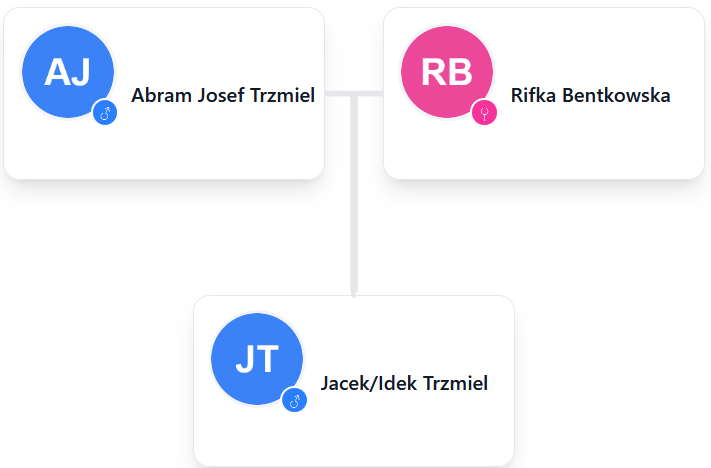
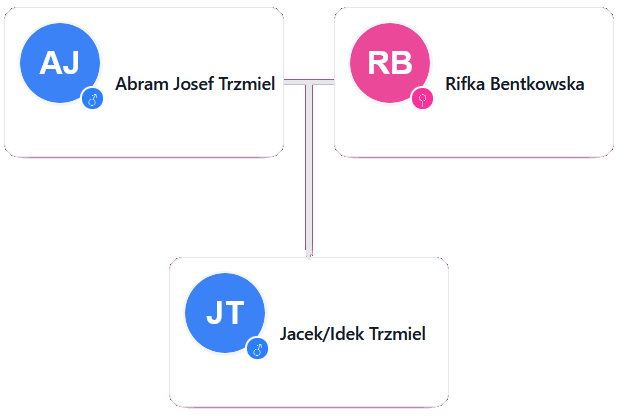
misc

diff --git a/demos/jack/photos.py b/demos/jack/photos.py
@@ -1,5 +1,9 @@
+import math
 import os
 import re
+
+from OpenGL.GL import *
+from OpenGL.GLU import gluPerspective
 
 from demos.jack.overlay import Picture
 from demos.jack.revived_photoLODZ import RevivedPhoto
@@ -7,8 +11,10 @@ from demos.jack.revived_photoLODZ import RevivedPhoto
 
 class StagePhoto:
     def __init__(self, appear=None, disappear=None, opacity=0.85, pop_seconds=0.2, translucent_seconds=0.5,
-                 clearing_seconds=1.0, exit_seconds=0.5, room_seconds=0.6):
+                 clearing_seconds=1.0, exit_seconds=0.5, room_seconds=0.6, from_second=None, until_second=None):
         self.room_seconds = room_seconds
+        self.from_second = from_second
+        self.until_second = until_second
         self.appear = appear
         self.disappear = disappear
         self.opacity = opacity
@@ -18,7 +24,7 @@ class StagePhoto:
         self.exit_seconds = exit_seconds
 
     def is_planned(self):
-        return self.appear is not None or self.disappear is not None
+        return any(value is not None for value in (self.appear, self.disappear, self.from_second, self.until_second))
 
     def plan(self, appear, disappear):
         self.appear = appear if self.appear is None else self.appear
@@ -26,8 +32,10 @@ class StagePhoto:
 
     def _shown_span(self, stage):
         window_start, window_end = stage.photo_window()
-        return (window_start + (window_end - window_start) * self.appear,
-                window_start + (window_end - window_start) * self.disappear)
+        start = window_start + (window_end - window_start) * self.appear
+        end = window_start + (window_end - window_start) * self.disappear
+        return (start if self.from_second is None else self.from_second,
+                end if self.until_second is None else self.until_second)
 
     def room_needed(self, stage, time):
         elapsed = time - stage.start_time
@@ -96,8 +104,8 @@ class BottomRightPlacement:
 
 
 class StillPhoto(StagePhoto):
-    def __init__(self, file_name, appear=None, disappear=None, placement=None):
-        super().__init__(appear, disappear)
+    def __init__(self, file_name, appear=None, disappear=None, placement=None, from_second=None, until_second=None):
+        super().__init__(appear, disappear, from_second=from_second, until_second=until_second)
         self.picture = Picture(file_name)
         self.placement = placement or CenteredPlacement()
 
@@ -110,6 +118,44 @@ class StillPhoto(StagePhoto):
 
     def draw(self, overlay, strength, box):
         overlay.draw_texture(self.picture.texture.id, self.area(overlay, box), strength)
+
+
+class SwayingPhoto(StillPhoto):
+    def __init__(self, file_name, appear=None, disappear=None, placement=None, from_second=None, until_second=None,
+                 sway_degrees=10.0, sway_period=6.0, field_of_view=30.0):
+        super().__init__(file_name, appear, disappear, placement, from_second, until_second)
+        self.sway_degrees = sway_degrees
+        self.sway_period = sway_period
+        self.field_of_view = field_of_view
+        self.sway_time = 0.0
+
+    def update(self, dt):
+        self.sway_time += dt
+
+    def draw(self, overlay, strength, box):
+        x, y, width, height = self.area(overlay, box)
+        distance = overlay.height / 2.0 / math.tan(math.radians(self.field_of_view) / 2.0)
+        glMatrixMode(GL_PROJECTION)
+        glLoadIdentity()
+        gluPerspective(self.field_of_view, overlay.width / overlay.height, distance * 0.2, distance * 3.0)
+        glMatrixMode(GL_MODELVIEW)
+        glLoadIdentity()
+        glTranslatef(x + width / 2.0 - overlay.width / 2.0, overlay.height / 2.0 - y - height / 2.0, -distance)
+        glRotatef(self.sway_degrees * math.sin(2.0 * math.pi * self.sway_time / self.sway_period), 0.0, 1.0, 0.0)
+        glBindTexture(GL_TEXTURE_2D, self.picture.texture.id)
+        glColor4f(1.0, 1.0, 1.0, strength)
+        half_width, half_height = width / 2.0, height / 2.0
+        glBegin(GL_QUADS)
+        glTexCoord2f(0.0, 0.0)
+        glVertex3f(-half_width, half_height, 0.0)
+        glTexCoord2f(1.0, 0.0)
+        glVertex3f(half_width, half_height, 0.0)
+        glTexCoord2f(1.0, 1.0)
+        glVertex3f(half_width, -half_height, 0.0)
+        glTexCoord2f(0.0, 1.0)
+        glVertex3f(-half_width, -half_height, 0.0)
+        glEnd()
+        overlay.apply()
 
 
 class PhotoAlbum:
@@ -126,8 +172,8 @@ class PhotoAlbum:
 
 
 class LivingPhoto(StagePhoto):
-    def __init__(self, appear=None, disappear=None):
-        super().__init__(appear, disappear)
+    def __init__(self, appear=None, disappear=None, from_second=None, until_second=None):
+        super().__init__(appear, disappear, from_second=from_second, until_second=until_second)
         self.revived = RevivedPhoto()
 
     def update(self, dt):

diff --git a/lib/test/historical_earth_test.py b/lib/test/historical_earth_test.py
@@ -1,0 +1,50 @@
+import math
+import os
+import sys
+
+import pygame
+from pygame.locals import K_SPACE
+from OpenGL.GLU import gluLookAt
+
+sys.path.insert(0, os.path.abspath(os.path.join(os.path.dirname(__file__), "..", "..")))
+
+from lib.historical_earth import HistoricalEarth
+from lib.test.earth_test import EarthTest
+
+
+class HistoricalEarthTest(EarthTest):
+    """Camera holds still near the globe while it spins the marked cities past; SPACE flips the map's year."""
+
+    def __init__(self, cities, camera_distance=19.0, camera_elevation=30.0, spin_speed=12.0):
+        super().__init__(earth_class=HistoricalEarth, caption="Historical Earth Test")
+        self.camera_distance = camera_distance
+        self.camera_elevation = camera_elevation
+        self.earth.spin_speed = spin_speed
+        self.earth.moon_enabled = False
+        for city, height_share in cities:
+            self.earth.mark_city(city, height=self.earth.sign_size * height_share)
+        self._show_caption()
+
+    def _show_caption(self):
+        pygame.display.set_caption(f"Historical Earth Test - {self.earth.year} (SPACE switches year)")
+
+    def _on_key(self, key):
+        if key == K_SPACE:
+            years = self.earth.years
+            self.earth.show_year(years[(years.index(self.earth.year) + 1) % len(years)])
+            self._show_caption()
+
+    def _look_at_earth(self):
+        elevation = math.radians(self.camera_elevation)
+        gluLookAt(0.0, math.sin(elevation) * self.camera_distance, math.cos(elevation) * self.camera_distance,
+                  0.0, 0.0, 0.0, 0.0, 1.0, 0.0)
+
+
+def main():
+    # Auschwitz stands just south of Lodz, in front of it as seen from the south, so its sign is kept low.
+    HistoricalEarthTest((("Lodz", 1.0), ("Auschwitz", 0.55), ("Bergen-Belsen", 1.0),
+                         ("New York", 1.0), ("Toronto", 1.0), ("Monte Sereno", 1.0))).run()
+
+
+if __name__ == "__main__":
+    main()

diff --git a/demos/retrosfera10/phases/main_hall.py b/demos/retrosfera10/phases/main_hall.py
@@ -37,9 +37,10 @@ class MainHallDemoPhase(DemoPhase):
 		self.hall = MainHall()
 		far_wall = -self.hall.half_length
 		self.start_eye = Vector3(0.0, 2.6, self.hall.half_length - 0.5)
-		self.end_eye = Vector3(0.0, 1.9, self.hall.stage_front() + 9.0)
+		stage_center_x = (self.hall.stage.left_x + self.hall.stage.right_x) / 2
+		self.end_eye = Vector3(stage_center_x, 1.9, self.hall.stage_front() + 9.0)
 		self.start_target = Vector3(0.0, 2.6, far_wall)
-		self.end_target = Vector3(0.0, 1.6, far_wall)
+		self.end_target = Vector3(stage_center_x, 1.6, far_wall)
 		self.events = (
 			TimedEvent(self.timeline.screen_delay, self.hall.start_dolls_jumping),
 			TimedEvent(self.timeline.logo_time(), self.hall.show_screen_logo),

diff --git a/demos/jack/stages/war_years.py b/demos/jack/stages/war_years.py
@@ -1,13 +1,14 @@
 from demos.jack.framings import EUROPE
 from demos.jack.locations import AHLEM, AUSCHWITZ, LITZMANNSTADT, LODZ
-from demos.jack.photos import LivingPhoto, StillPhoto
+from demos.jack.photos import LivingPhoto, StillPhoto, SwayingPhoto
 from demos.jack.stage import Chapter, MapEra, Stage
 
 
 class StageLodz(Stage):
     def __init__(self):
         super().__init__(1, MapEra.PRE_WAR, year_label="1928-39",
-                         photos=(LivingPhoto(appear=0.25, disappear=0.8),), locations=(LODZ,))
+                         photos=(LivingPhoto(until_second=10.0), SwayingPhoto("family-tree.png", from_second=10.0)),
+                         locations=(LODZ,))
 
 
 class StageWW2(Stage):
